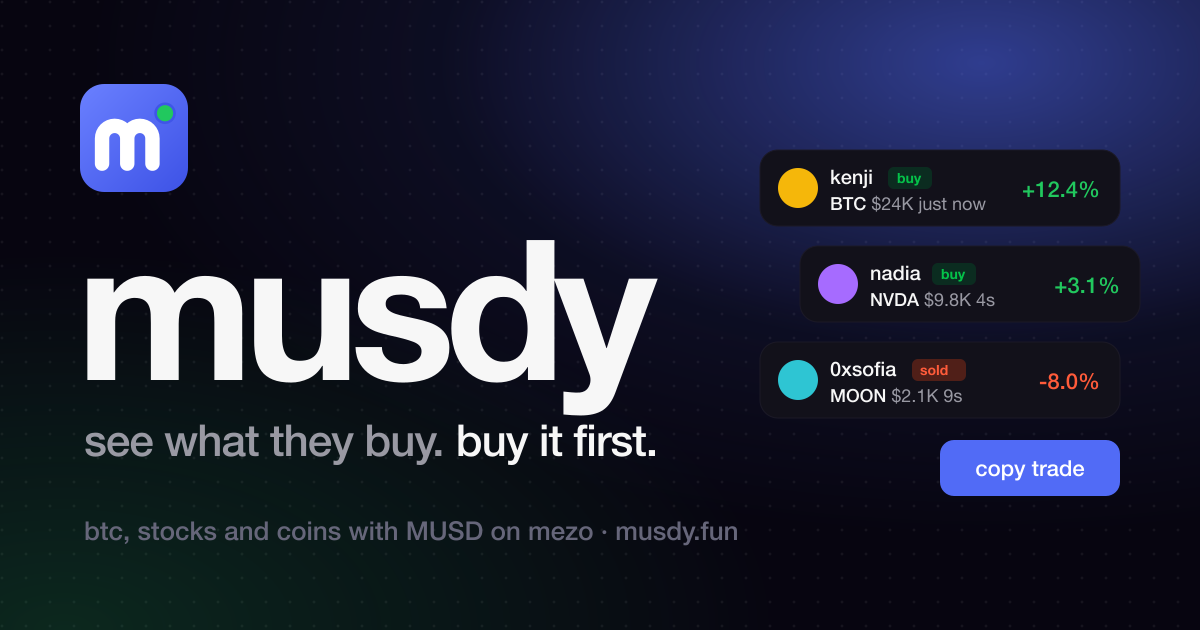
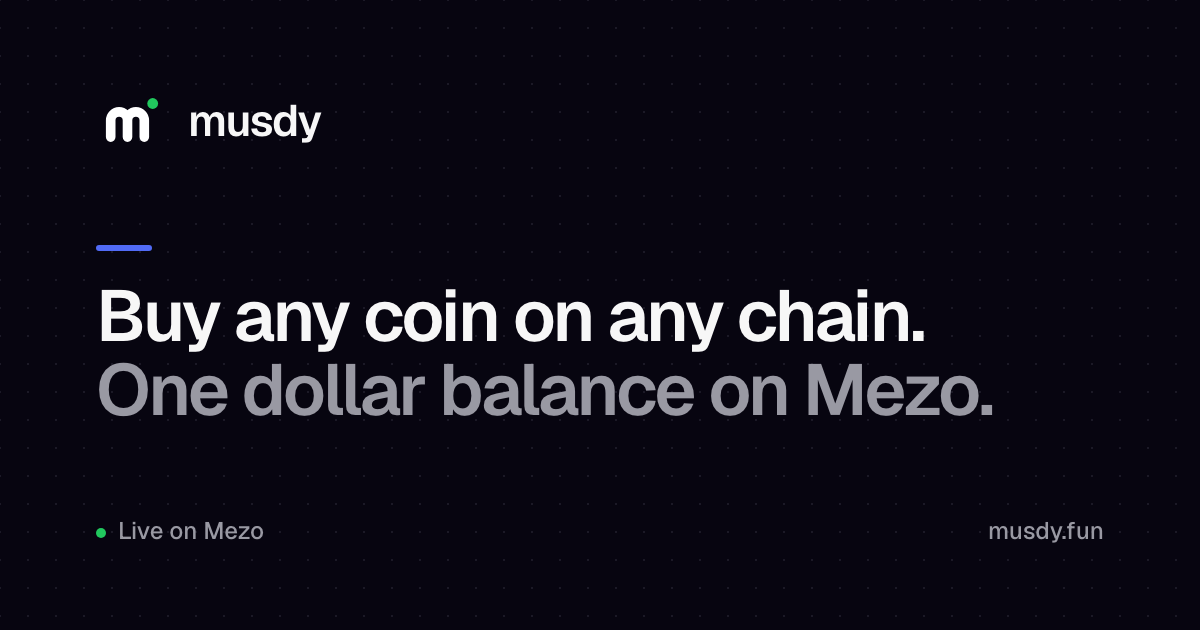
feat: share card metadata and minimal og

diff --git a/web/src/app/layout.tsx b/web/src/app/layout.tsx
@@ -8,11 +8,13 @@ import "./globals.css";
 const geist = Geist({ variable: "--font-geist", subsets: ["latin"], weight: ["400", "500", "600", "700"] });
 const geistMono = Geist_Mono({ variable: "--font-geist-mono", subsets: ["latin"], weight: ["400", "500"] });
 
-const description = "see what they buy. buy it first. one USD balance on Mezo, copy any trade in one tap.";
+const title = "musdy | Buy Any Coin On Any Chain";
+const description = "Buy any coin on any chain from one dollar balance on Mezo. See what traders buy and copy them in one tap. No gas, no bridges.";
+const short = "Buy any coin on any chain. One dollar balance on Mezo.";
 
 export const metadata: Metadata = {
-  metadataBase: new URL(process.env.NEXT_PUBLIC_SITE_URL ?? "http://localhost:3100"),
-  title: "musdy",
+  metadataBase: new URL(process.env.NEXT_PUBLIC_APP_URL ?? "https://musdy.fun"),
+  title,
   description,
   applicationName: "musdy",
   icons: {
@@ -22,8 +24,22 @@ export const metadata: Metadata = {
     ],
     apple: "/brand/apple-touch-icon-180.png",
   },
-  openGraph: { title: "musdy", description, siteName: "musdy", images: [{ url: "/brand/og.png", width: 1200, height: 630 }] },
-  twitter: { card: "summary_large_image", title: "musdy", description, images: ["/brand/og.png"] },
+  openGraph: {
+    title,
+    description: short,
+    type: "website",
+    url: "/",
+    siteName: "musdy",
+    images: [{ url: "/og.png", width: 1200, height: 630, alt: "musdy, buy any coin on any chain from one dollar balance on Mezo" }],
+  },
+  twitter: {
+    card: "summary_large_image",
+    title,
+    description: short,
+    site: "@vwakesahu",
+    creator: "@vwakesahu",
+    images: ["/og.png"],
+  },
 };
 
 export const viewport: Viewport = {
